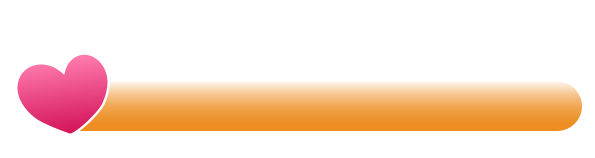
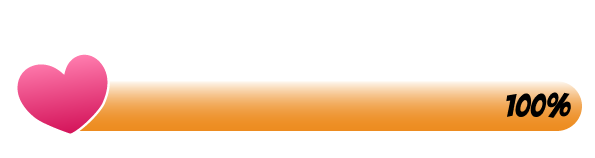
Added percent numbers to status bars

Changed region(s): [[0.8471, 0.5823, 0.9681, 0.7595]]

diff --git a/src/js/models/statusBars/status-bar-bottle.class.js b/src/js/models/statusBars/status-bar-bottle.class.js
@@ -1,11 +1,11 @@
 class StatusBarBottle extends StatusBar {
     IMAGES = [
-        "assets/img/7_statusbars/1_statusbar/3_statusbar_bottle/blue/0.png",
-        "assets/img/7_statusbars/1_statusbar/3_statusbar_bottle/blue/20.png",
-        "assets/img/7_statusbars/1_statusbar/3_statusbar_bottle/blue/40.png",
-        "assets/img/7_statusbars/1_statusbar/3_statusbar_bottle/blue/60.png",
-        "assets/img/7_statusbars/1_statusbar/3_statusbar_bottle/blue/80.png",
-        "assets/img/7_statusbars/1_statusbar/3_statusbar_bottle/blue/100.png",
+        "assets/img/7_statusbars/1_statusbar/3_statusbar_bottle/orange/0.png",
+        "assets/img/7_statusbars/1_statusbar/3_statusbar_bottle/orange/20.png",
+        "assets/img/7_statusbars/1_statusbar/3_statusbar_bottle/orange/40.png",
+        "assets/img/7_statusbars/1_statusbar/3_statusbar_bottle/orange/60.png",
+        "assets/img/7_statusbars/1_statusbar/3_statusbar_bottle/orange/80.png",
+        "assets/img/7_statusbars/1_statusbar/3_statusbar_bottle/orange/100.png",
     ];
 
     constructor() {

diff --git a/src/js/models/statusBars/status-bar-health.class.js b/src/js/models/statusBars/status-bar-health.class.js
@@ -1,11 +1,11 @@
 class StatusBarHealth extends StatusBar {
     IMAGES = [
-        "assets/img/7_statusbars/1_statusbar/2_statusbar_health/blue/0.png",
-        "assets/img/7_statusbars/1_statusbar/2_statusbar_health/blue/20.png",
-        "assets/img/7_statusbars/1_statusbar/2_statusbar_health/blue/40.png",
-        "assets/img/7_statusbars/1_statusbar/2_statusbar_health/blue/60.png",
-        "assets/img/7_statusbars/1_statusbar/2_statusbar_health/blue/80.png",
-        "assets/img/7_statusbars/1_statusbar/2_statusbar_health/blue/100.png"
+        "assets/img/7_statusbars/1_statusbar/2_statusbar_health/orange/0.png",
+        "assets/img/7_statusbars/1_statusbar/2_statusbar_health/orange/20.png",
+        "assets/img/7_statusbars/1_statusbar/2_statusbar_health/orange/40.png",
+        "assets/img/7_statusbars/1_statusbar/2_statusbar_health/orange/60.png",
+        "assets/img/7_statusbars/1_statusbar/2_statusbar_health/orange/80.png",
+        "assets/img/7_statusbars/1_statusbar/2_statusbar_health/orange/100.png"
     ];
 
     constructor() {

diff --git a/src/js/models/statusBars/status-bar-coin.class.js b/src/js/models/statusBars/status-bar-coin.class.js
@@ -1,11 +1,11 @@
 class StatusBarCoin extends StatusBar {
     IMAGES = [
-        "assets/img/7_statusbars/1_statusbar/1_statusbar_coin/blue/0.png",
-        "assets/img/7_statusbars/1_statusbar/1_statusbar_coin/blue/20.png",
-        "assets/img/7_statusbars/1_statusbar/1_statusbar_coin/blue/40.png",
-        "assets/img/7_statusbars/1_statusbar/1_statusbar_coin/blue/60.png",
-        "assets/img/7_statusbars/1_statusbar/1_statusbar_coin/blue/80.png",
-        "assets/img/7_statusbars/1_statusbar/1_statusbar_coin/blue/100.png"
+        "assets/img/7_statusbars/1_statusbar/1_statusbar_coin/orange/0.png",
+        "assets/img/7_statusbars/1_statusbar/1_statusbar_coin/orange/20.png",
+        "assets/img/7_statusbars/1_statusbar/1_statusbar_coin/orange/40.png",
+        "assets/img/7_statusbars/1_statusbar/1_statusbar_coin/orange/60.png",
+        "assets/img/7_statusbars/1_statusbar/1_statusbar_coin/orange/80.png",
+        "assets/img/7_statusbars/1_statusbar/1_statusbar_coin/orange/100.png"
     ];
 
     constructor() {

diff --git a/src/js/models/statusBars/status-bar-endboss.class.js b/src/js/models/statusBars/status-bar-endboss.class.js
@@ -1,11 +1,11 @@
 class StatusBarEndboss extends StatusBar {
     IMAGES = [
-        "assets/img/7_statusbars/2_statusbar_endboss/blue/blue0.png",
-        "assets/img/7_statusbars/2_statusbar_endboss/blue/blue20.png",
-        "assets/img/7_statusbars/2_statusbar_endboss/blue/blue40.png",
-        "assets/img/7_statusbars/2_statusbar_endboss/blue/blue60.png",
-        "assets/img/7_statusbars/2_statusbar_endboss/blue/blue80.png",
-        "assets/img/7_statusbars/2_statusbar_endboss/blue/blue100.png",
+        "assets/img/7_statusbars/2_statusbar_endboss/orange/orange0.png",
+        "assets/img/7_statusbars/2_statusbar_endboss/orange/orange20.png",
+        "assets/img/7_statusbars/2_statusbar_endboss/orange/orange40.png",
+        "assets/img/7_statusbars/2_statusbar_endboss/orange/orange60.png",
+        "assets/img/7_statusbars/2_statusbar_endboss/orange/orange80.png",
+        "assets/img/7_statusbars/2_statusbar_endboss/orange/orange100.png",
     ];
 
     constructor() {
